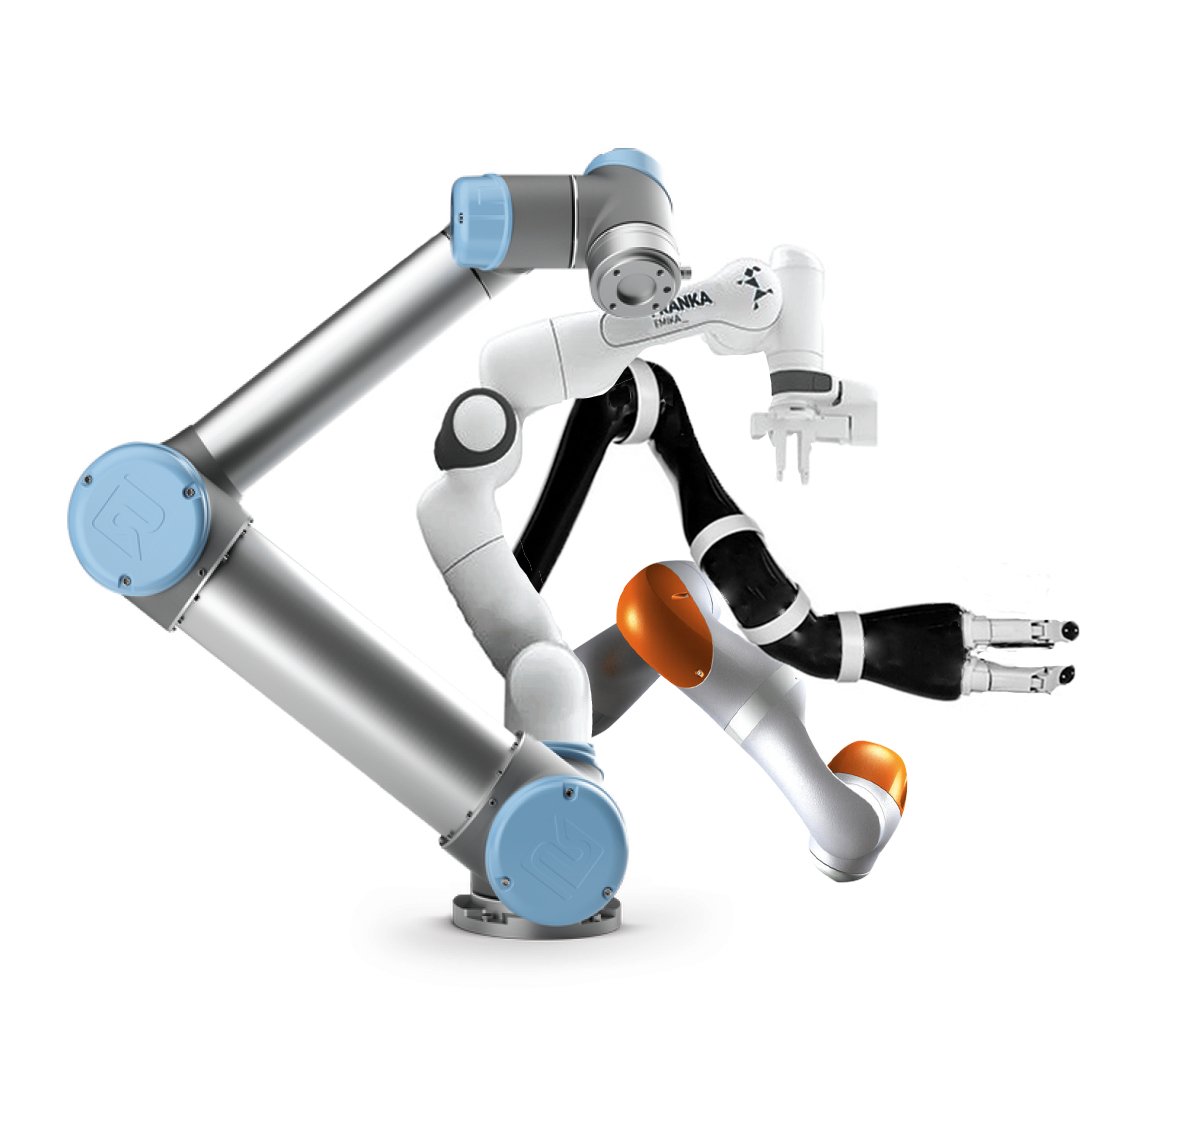
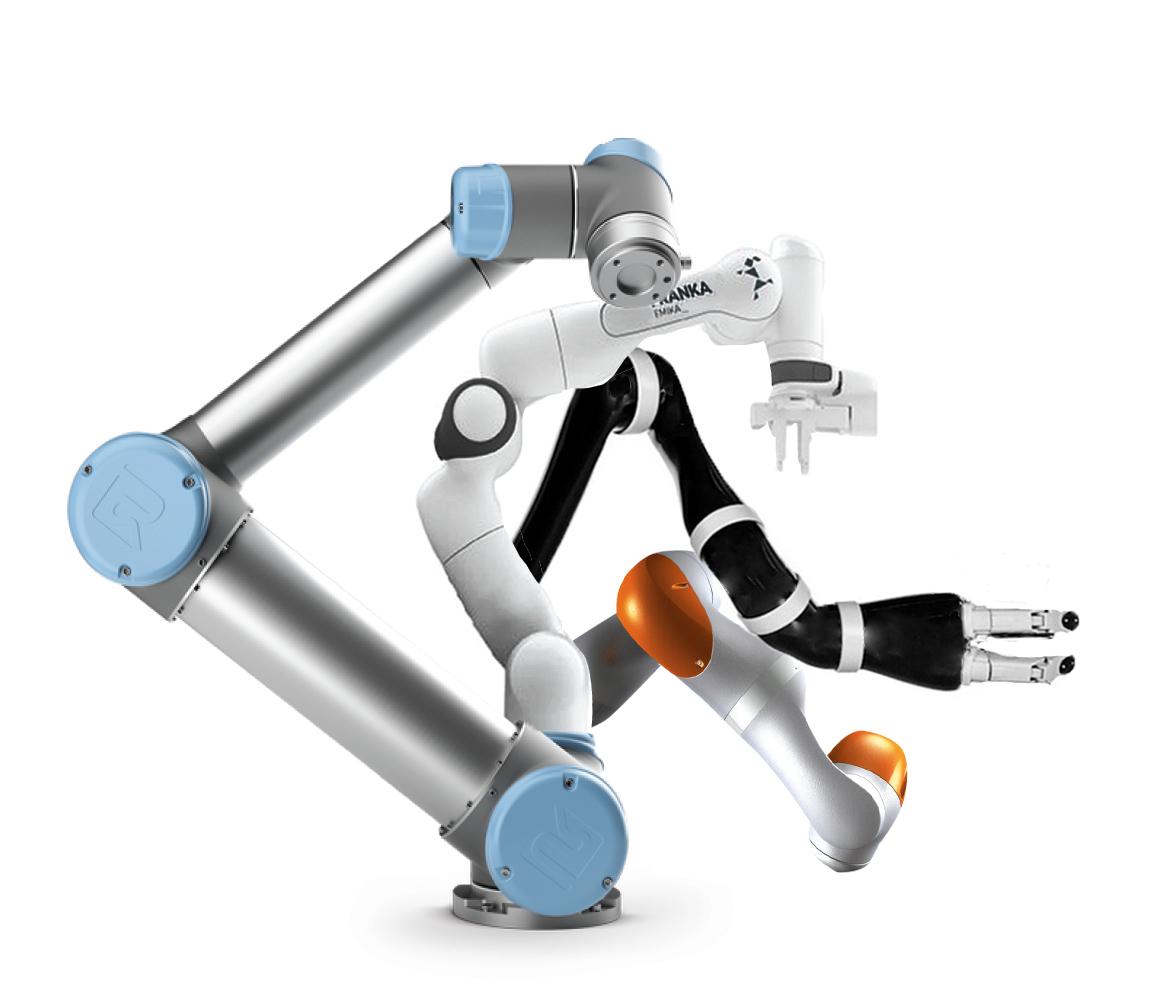
Removed link to video, fixed hero image align, added Address.

Changed region(s): [[0.0304, 0.1244, 0.9435, 0.9639]]

diff --git a/jobs.html b/jobs.html
@@ -16,7 +16,6 @@
     <script src="https://ajax.googleapis.com/ajax/libs/jquery/3.1.0/jquery.min.js"></script>
 
     <meta name="viewport" content="width=device-width, user-scalable=no, initial-scale=1.0, maximum-scale=1.0, minimum-scale=1.0">
-    <script type="text/javascript" src="./JS/video.min.js"></script>
     <script>
         (function($, undefined) {
             var open = [];
@@ -159,29 +158,30 @@
                         <br>
                         <div class="bullet">&#9633;</div> Enjoy a relaxed work environment with a generous vacation policy
                         <br>
-                        <div class="bullet">&#9633;</div> Work a flexible schedule including working remotely when you need to - Health Reimbursement Account (HRA)
+                        <div class="bullet">&#9633;</div> Work a flexible schedule including working remotely when you need to
+                        <br>
+                        <div class="bullet">&#9633;</div> Health Reimbursement Account (HRA)
                         <br><br> So you wanna join, what do you need to do?
                         <br><br> Submit your resume to <a href="mailto:jobs@picknik.ai">jobs@picknik.ai</a> and highlight relevant experience.
                     </div>
                 </div>
             </div>
         </div>
-        <!--
         <div class="recRow">
             <div class="recColL">
                 <div class="recPad">
-                    <div class="pTitle">Applied Robotics Scientist
+                    <div class="pTitle">Senior Software Engineer - Robotics
                     </div>
                     <div class="pText">
                         <div class="ital">Boulder, Denver · Full Time</div><br><br>
-                        <div class="pTitle2">Skills: </div>
+                        <div class="pTitle2">Skill Keywords: </div>
                         <br><br> Software Engineering, Python, C++, Control Systems, Robotics, Simulations, Motion Planning, Mobile Robotics, Robot Operating System (ROS), Gazebo, Robot motion planning, Moveit!, Inverse Kinematics
                         <br><br>
                         <div class="pTitle2">Job Description:</div> <br><br> Tackle some of the toughest problems in a rapidly growing industry. Implement cutting-edge robotic algorithms to solve important problems. See your contributions used worldwide in the Robotic Operating
                         System (ROS)community. We leverage open source to deliver custom software solutions to our clients that take advantage of the latest algorithms, research, and techniques.
                         <br><br> As an Applied Robotics Scientist at PickNik Consulting you will determine where academic research can be applied to solve our client’s problems and identify opportunities for innovation. You will be developing software
                         applications, optimizing advanced algorithms, and integrating solutions for our clients, internal products, and flagship open source projects. Duties will include developing sophisticated software in a variety of languages and
-                        platforms that will be used on robots around the world (and in outer space!).
+                        platforms that will be used on robots around the world (and in outer space!). You’ll need to readily make decisions relating to framework design and implementation.
                         <br><br> Am I a good fit?
                         <br><br>
                         <div class="bullet">&#9633;</div> You love robotics and have a passion for creating the next generation of robot software
@@ -200,24 +200,29 @@
                         <div class="pTitle2">Job Requirements</div>
                         <br><br>
 
-                        <div class="bullet">&#9633;</div> Masters or PhD in Robotics, Computer Science, or a related robotics-focused field
+                        <div class="bullet">&#9633;</div> Degree(s) in Computer Science, Robotics, Engineering, or a related field and/or equivalent industry experience. Advanced degrees are a plus.
                         <br>
-                        <div class="bullet">&#9633;</div> Proven track record of innovation in applying algorithms and advancing robotics
+                        <div class="bullet">&#9633;</div> Extensive knowledge of C++11 or newer.
                         <br>
-                        <div class="bullet">&#9633;</div> Strong C++ experience and familiarity with at least one scripting language, preferably Matlab or Python
+                        <div class="bullet">&#9633;</div> Skilled with at least one scripting language such as Python or Matlab.
                         <br>
-                        <div class="bullet">&#9633;</div> Theoretical understanding of motion planning, inverse kinematics, control systems, graph theory, and/or simulation
+                        <div class="bullet">&#9633;</div> Extensive knowledge of software development in Linux.
                         <br>
-                        <div class="bullet">&#9633;</div> Demonstrated ability, either through previous projects, advanced education/research, and/or knowledge of the robotics field
+                        <div class="bullet">&#9633;</div> Experience with full life-cycle library and application development, Git version control, software testing, and continuous integration.
                         <br>
-                        <div class="bullet">&#9633;</div> Experience with ROS or similar robotics middleware
+                        <div class="bullet">&#9633;</div> Experience with communication middleware
                         <br><br>
                         <div class="pTitle2">Some preferred skills/experience:</div>
                         <br><br>
-                        <div class="bullet">&#9633;</div> MoveIt!, Gazebo, OpenRave, or other robotic libraries are advantageous
+                        <div class="bullet">&#9633;</div> Common open source libraries and tools such as Eigen, OGRE, Qt, CMake, Bazel, and Protobufs.
                         <br>
-                        <div class="bullet">&#9633;</div> Common open source libraries and tools such as Eigen and Boost
-                        <br><br>
+                        <div class="bullet">&#9633;</div> ROS, MoveIt!, Gazebo, OpenRave, or other robotic libraries are advantageous.
+                        <br>
+                        <div class="bullet">&#9633;</div> General understanding of motion planning, inverse kinematics, control systems, graph theory, and/or simulation.
+                        <br>
+                        <div class="bullet">&#9633;</div> Demonstrated ability, either through previous projects, advanced education/research, and/or knowledge of the robotics field.
+                        <br>
+                        <br>
 
                         <div class="pTitle2">Benefits</div>
                         <br><br>
@@ -226,14 +231,15 @@
                         <br>
                         <div class="bullet">&#9633;</div> Enjoy a relaxed work environment with a generous vacation policy
                         <br>
-                        <div class="bullet">&#9633;</div> Work a flexible schedule including working remotely when you need to - Health Reimbursement Account (HRA)
+                        <div class="bullet">&#9633;</div> Work a flexible schedule including working remotely when you need to
+                        <br>
+                        <div class="bullet">&#9633;</div> Health Reimbursement Account (HRA)
                         <br><br> So you wanna join, what do you need to do?
                         <br><br> Submit your resume to <a href="mailto:jobs@picknik.ai">jobs@picknik.ai</a> and highlight relevant experience.
                     </div>
                 </div>
             </div>
         </div>
-    -->
     </div>
     <div class="footer">
         <div class="footerRow1">

diff --git a/connect.html b/connect.html
@@ -16,7 +16,6 @@
     <script src="https://ajax.googleapis.com/ajax/libs/jquery/3.1.0/jquery.min.js"></script>
 
     <meta name="viewport" content="width=device-width, user-scalable=no, initial-scale=1.0, maximum-scale=1.0, minimum-scale=1.0">
-    <script type="text/javascript" src="./JS/video.min.js"></script>
     <script>
         (function($, undefined) {
             var open = [];
@@ -97,7 +96,7 @@
 
         <div class="introCol1D">
             <script src='https://maps.googleapis.com/maps/api/js?v=3.exp&key=AIzaSyCZXCRwRpwuj2OyFK-6UryZhGy21RpOnb4'></script>
-            <div style='overflow:hidden;height:450px;width:100%;'>
+            <div style='overflow:hidden;height:500px;width:100%;'>
                 <div id='gmap_canvas' style='height:450px;width:100%;'></div>
                 <style>
                     #gmap_canvas img {
@@ -144,6 +143,16 @@
 
                 <img class="connectIcon" src="./images-picknik/connect-github.png">
                 <a class="connectText" target="_blank" href="https://github.com/PickNikRobotics/">GitHub</a>
+                <div class="connectMarg"></div>
+
+
+                <img class="connectIcon" src="./images-picknik/office-icon.png">
+
+                <a class="connectText" target="_blank" href="https://maps.google.com/?q=1942 Broadway, Suite 314 Boulder, Colorado 80302">
+                    <span id="addressText1">1942 Broadway, Suite 314</span> <br>
+                    <span id="addressText2">Boulder, Colorado 80302</span></a>
+
+
                 <div class="connectMarg"></div>
 
                 <img class="connectIcon" src="./images-picknik/connect-twitter.jpg">

diff --git a/CSS/csspicknik.css b/CSS/csspicknik.css
@@ -1263,6 +1263,12 @@ a.ros:hover {
     margin-bottom: -15px;
 }
 
+#addressText1 {}
+
+#addressText2 {
+    margin-left: 60px;
+}
+
 a.connectText:link {
     color: #000;
     text-decoration: none;
@@ -1328,13 +1334,15 @@ a.connectText:hover {
     background-position: center center;
 }
 
+.office-icon {}
+
 .introCol1D {
     background: white;
     display: table-cell;
     width: 33%;
     vertical-align: middle;
     text-align: center;
-    padding-top: 120px;
+    padding-top: 180px;
     padding-bottom: 120px;
     background-size: cover;
     background-position: center center;
@@ -1851,9 +1859,10 @@ a.peopleName:hover {
         display: block;
         width: 100%;
         vertical-align: middle;
-        text-align: left;
+        text-align: center;
         padding-top: 20px;
         padding-bottom: 80px;
+        margin: 0 auto;
     }
     .heroPad {
         text-align: center;
@@ -1913,6 +1922,7 @@ a.peopleName:hover {
     .heroImg {
         width: 100%;
         max-width: 680px;
+        margin: 0 auto;
     }
     /*END HERO AREA*/
     /*HOME INTRO*/
@@ -2336,6 +2346,13 @@ a.peopleName:hover {
         width: 140px;
         height: 44px;
     }
+    .logo {
+        text-align: center;
+        margin: 0 auto;
+    }
+    .logo-container {
+        margin: 0 auto;
+    }
     /*END FOOTER*/
     /*CONNECT*/
     .intro {
@@ -2421,6 +2438,10 @@ a.peopleName:hover {
         margin-right: 15px;
         display: inline;
         margin-bottom: -15px;
+    }
+    #addressText1 {}
+    #addressText2 {
+        margin-left: 60px;
     }
     a.connectText:link {
         color: #000;

diff --git a/index.html b/index.html
@@ -15,7 +15,6 @@
     <script src="https://ajax.googleapis.com/ajax/libs/jquery/3.1.0/jquery.min.js"></script>
 
     <meta name="viewport" content="width=device-width, user-scalable=no, initial-scale=1.0, maximum-scale=1.0, minimum-scale=1.0">
-    <script type="text/javascript" src="./JS/video.min.js"></script>
     <script>
         (function($, undefined) {
             var open = [];
@@ -96,7 +95,7 @@
             <div class="heroCol1">
                 <div class="heroPad">
                     <div class="heroTitle">ACCELERATE YOUR <br> ROBOTICS DEVELOPMENT</div>
-                    <div class="line2"></div>
+                    <div class="line"></div>
                     <div class="heroSubText">
                         <strong>Avoid vendor lock-in by leveraging open source.</strong><br><br> We are robotic software experts available to develop, integrate, or provide general consulting and training for your robotic applications. PickNik Consulting
                         offers on- and off-site work and support in any location. We have particular expertise in motion planning, complex inverse kinematics, and robotics simulation. </div>

diff --git a/people.html b/people.html
@@ -16,7 +16,6 @@
     <script src="https://ajax.googleapis.com/ajax/libs/jquery/3.1.0/jquery.min.js"></script>
 
     <meta name="viewport" content="width=device-width, user-scalable=no, initial-scale=1.0, maximum-scale=1.0, minimum-scale=1.0">
-    <script type="text/javascript" src="./JS/video.min.js"></script>
     <script>
         (function($, undefined) {
             var open = [];

diff --git a/projects.html b/projects.html
@@ -16,7 +16,6 @@
     <script src="https://ajax.googleapis.com/ajax/libs/jquery/3.1.0/jquery.min.js"></script>
 
     <meta name="viewport" content="width=device-width, user-scalable=no, initial-scale=1.0, maximum-scale=1.0, minimum-scale=1.0">
-    <script type="text/javascript" src="./JS/video.min.js"></script>
     <script>
         (function($, undefined) {
             var open = [];

diff --git a/services.html b/services.html
@@ -16,7 +16,6 @@
     <script src="https://ajax.googleapis.com/ajax/libs/jquery/3.1.0/jquery.min.js"></script>
 
     <meta name="viewport" content="width=device-width, user-scalable=no, initial-scale=1.0, maximum-scale=1.0, minimum-scale=1.0">
-    <script type="text/javascript" src="./JS/video.min.js"></script>
     <script>
         (function($, undefined) {
             var open = [];

diff --git a/support.html b/support.html
@@ -15,7 +15,6 @@
     <script src="https://ajax.googleapis.com/ajax/libs/jquery/3.1.0/jquery.min.js"></script>
 
     <meta name="viewport" content="width=device-width, user-scalable=no, initial-scale=1.0, maximum-scale=1.0, minimum-scale=1.0">
-    <script type="text/javascript" src="./JS/video.min.js"></script>
     <script>
         (function($, undefined) {
             var open = [];
